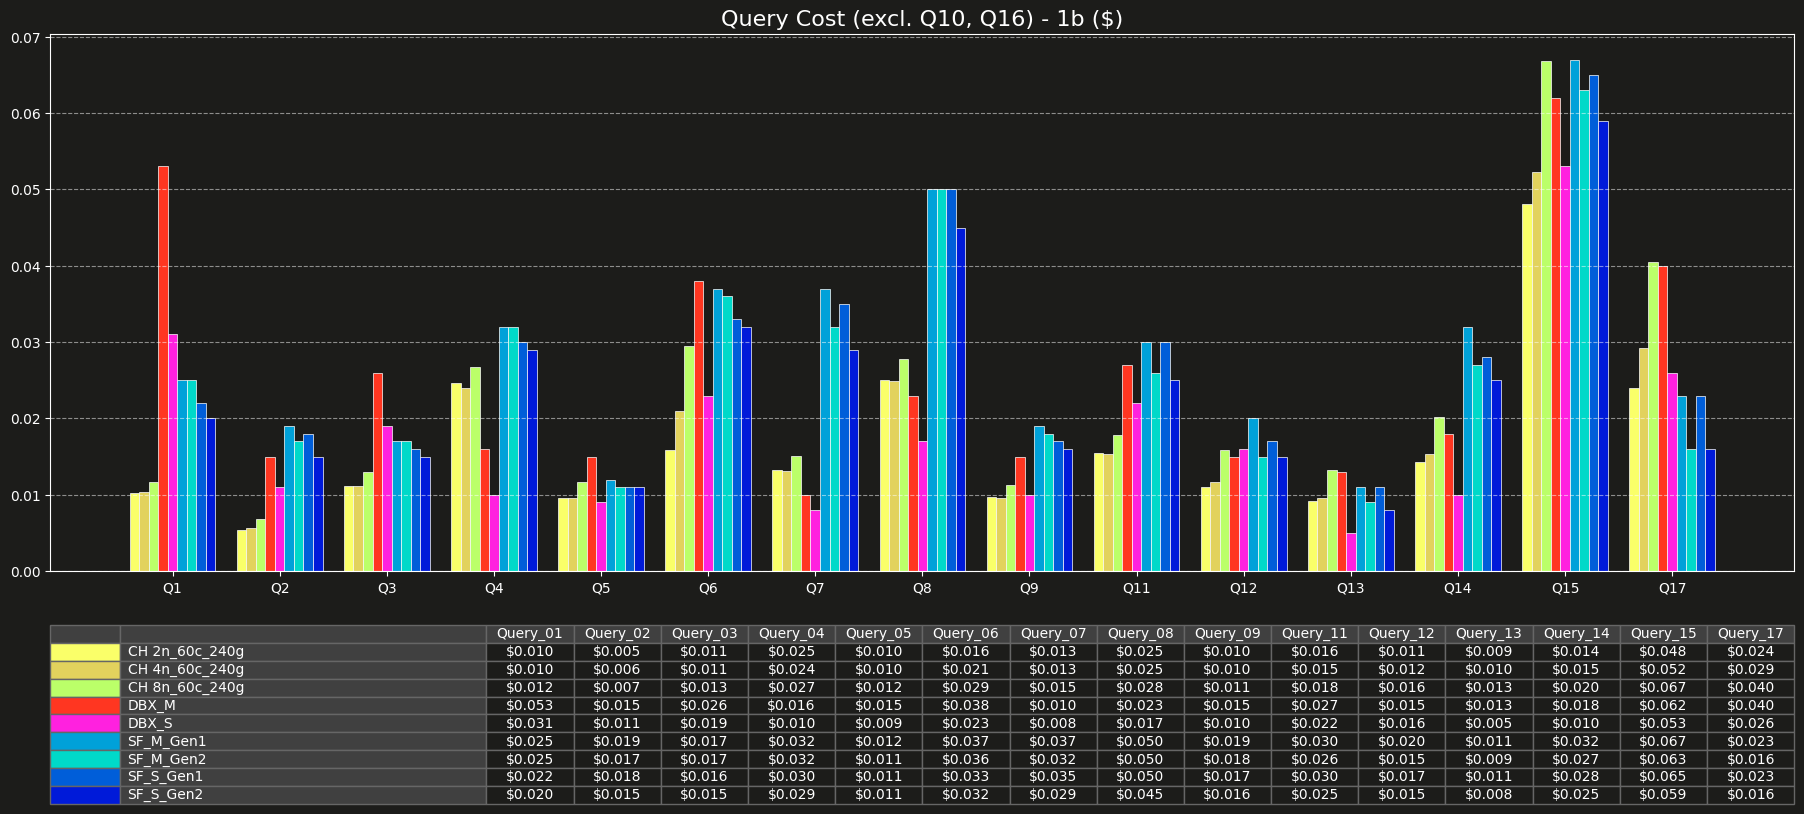
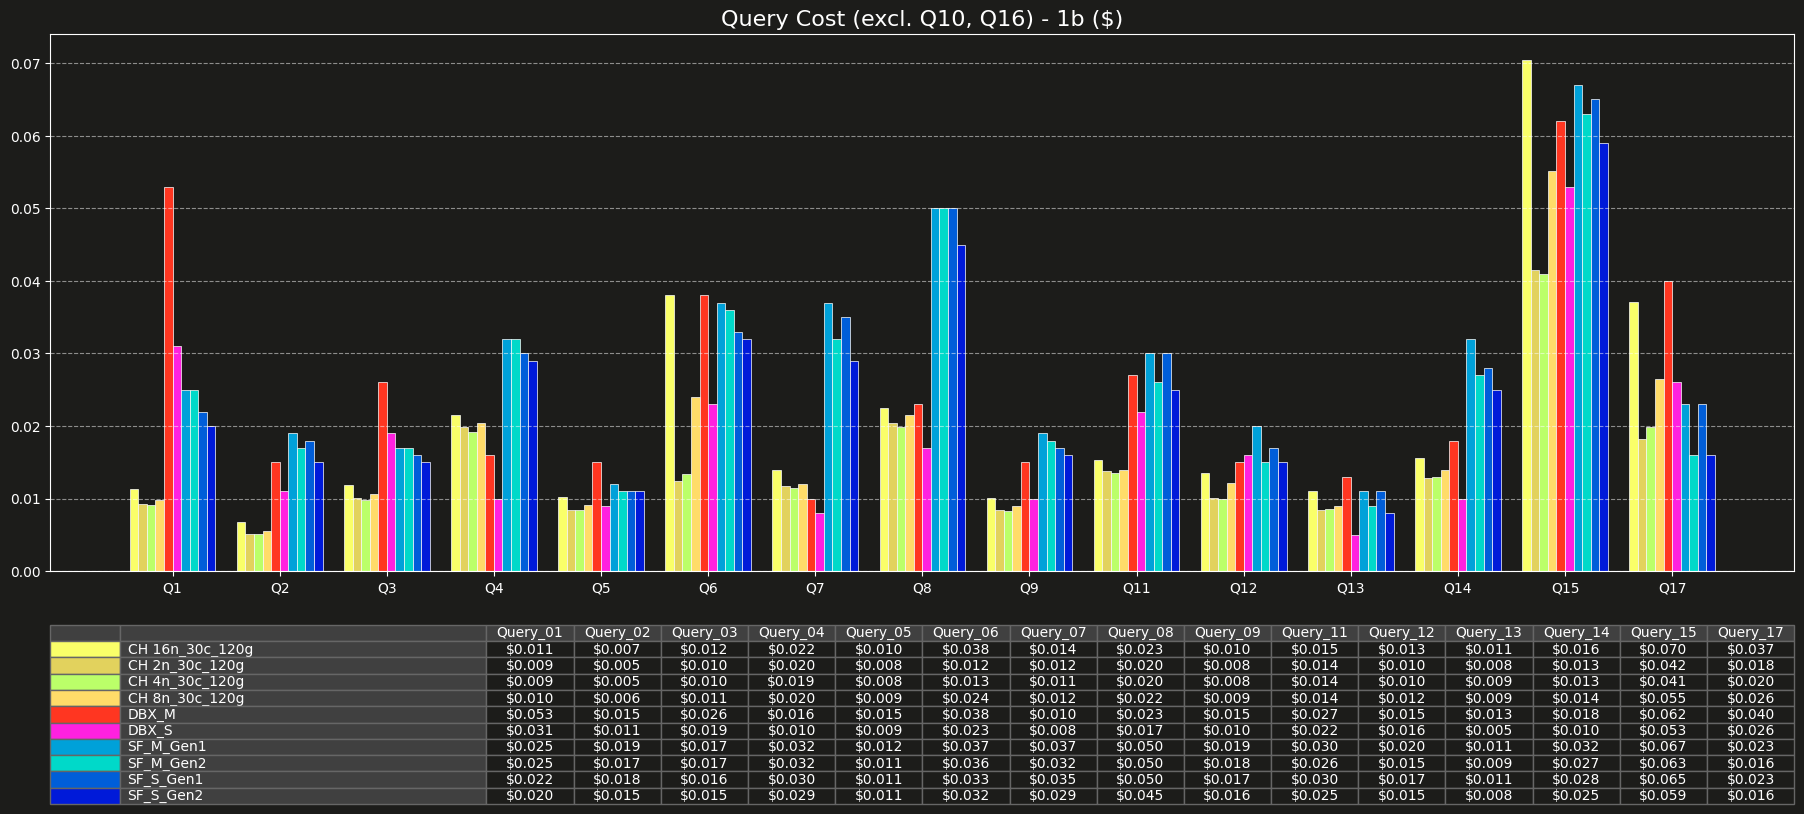
30c120g ch results

diff --git a/chart_generation/main.py b/chart_generation/main.py
@@ -86,11 +86,21 @@ def load_clickhouse_data(data_type):
     for filename in os.listdir(results_dir):
         if filename.startswith("result_") and filename.endswith(".json"):
             file_path = os.path.join(results_dir, filename)
-            # Extract scale and hardware from filename, e.g., result_1b_2n_60c_240g_....json
-            parts = filename.replace("result_", "").split('_')
-            dataset_size = parts[0]
-            # Assuming hardware config is everything between the first and last two parts (date, time)
-            hardware_config_ch = "_" .join(parts[1:-2]) 
+            # Extract scale and hardware from filename
+            # New pattern: result_v25_4_1_1b_2n_30c_120g_20250620_151900.json
+            # Old pattern: result_1b_2n_60c_240g_....json
+            parts = filename.replace("result_", "").replace(".json", "").split('_')
+            
+            # Check if this is the new pattern (starts with version like v25_4_1)
+            if parts[0].startswith('v'):
+                # New pattern: skip version parts (v25, 4, 1) and get dataset size
+                dataset_size = parts[3]  # 1b is at index 3 after v25, 4, 1
+                # Hardware config starts after dataset size, ends before timestamp (last 2 parts)
+                hardware_config_ch = "_".join(parts[4:-2])
+            else:
+                # Old pattern: dataset size is first, hardware config follows
+                dataset_size = parts[0]
+                hardware_config_ch = "_".join(parts[1:-2])
             # Map to a more generic hardware label if needed, for now use raw
             # For ClickHouse, hardware might be like '2n_60c_240g'
 
